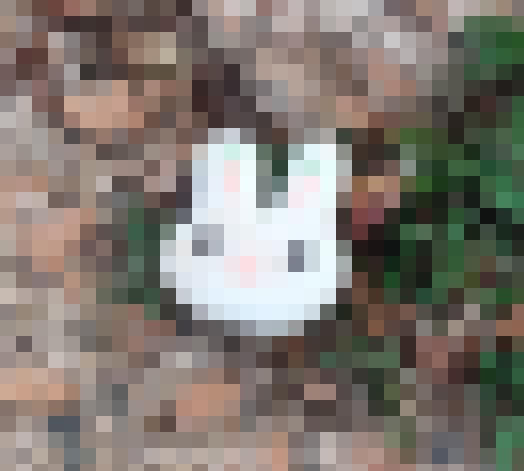
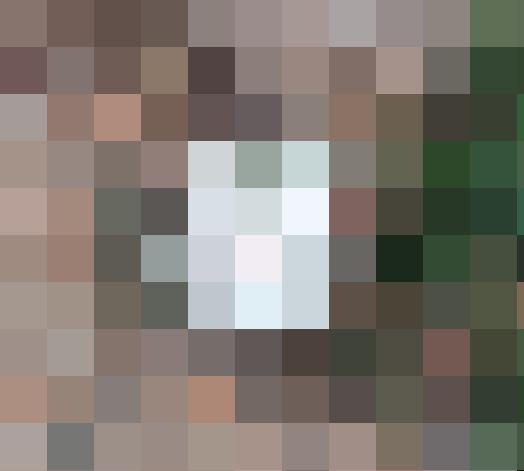
corrigindo pixelular

diff --git a/src/unicamp_effects/effects/175807.py b/src/unicamp_effects/effects/175807.py
@@ -41,22 +41,25 @@ def maria_e_sobel(img: np.ndarray) -> np.ndarray:
 def pixelular(img: np.ndarray) -> np.ndarray:
     # Adiciono padding para que a imagem possa ser quebrada em pixels de 16x16
     # Adiciono 4 pixels na direita e 9 pixels inferiores para totalizar 480x528 pixels
-    foto_pad = np.pad(img, ((0,9),(0,4),(0,0)), mode='edge')
+    h, w, _ = img.shape
+    bloco = h // 10
 
-    # Quebro a imagem em bloquinhos de 16x16, tomando cuidado para pegar as posições corretas de pixels
-    foto_bloco = foto_pad.reshape(30, 16, 33, 16, 3).transpose(0,2,1,3,4)
+    pad_h = (bloco - h % bloco) % bloco
+    pad_w = (bloco - w % bloco) % bloco
 
-    # Tiro a média dos pixels separados em rgb dentro desses bloquinhos
-    means = foto_bloco.mean(axis=(2,3), keepdims=True)
+    img_pad = np.pad(img, ((0,pad_h),(0,pad_w),(0,0)), mode='edge')
 
-    # Expansão da média
-    foto_pxl = np.repeat(np.repeat(means, 16, axis=2), 16, axis=3)
+    H, W, _ = img_pad.shape
 
-    # Volta ao shape original
-    foto_ori = foto_pxl.transpose(0,2,1,3,4).reshape(480,528,3).astype('uint8')
+    img_bloco = img_pad.reshape(H//bloco, bloco, W//bloco, bloco, 3).transpose(0,2,1,3,4)
 
-    foto_crop = foto_ori[0:471:,0:524:,:]
-    return foto_crop
+    means = img_bloco.mean(axis=(2,3), keepdims=True)
+
+    img_pxl = np.repeat(np.repeat(means, bloco, axis=2), bloco, axis=3)
+
+    img_out = img_pxl.transpose(0,2,1,3,4).reshape(H, W, 3)
+
+    return img_out[:h, :w].astype(np.uint8)
 
 @register(prefix="175807")
 def futuro(img: np.ndarray) -> np.ndarray:
